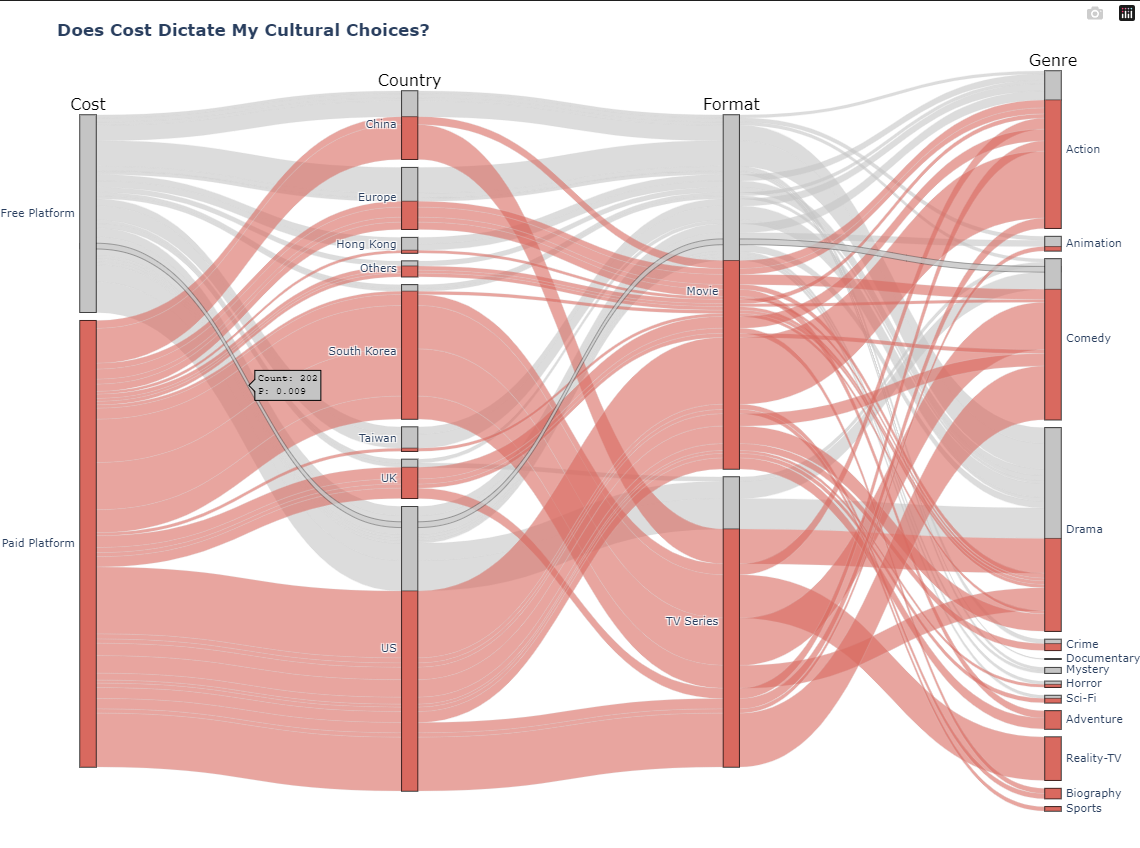
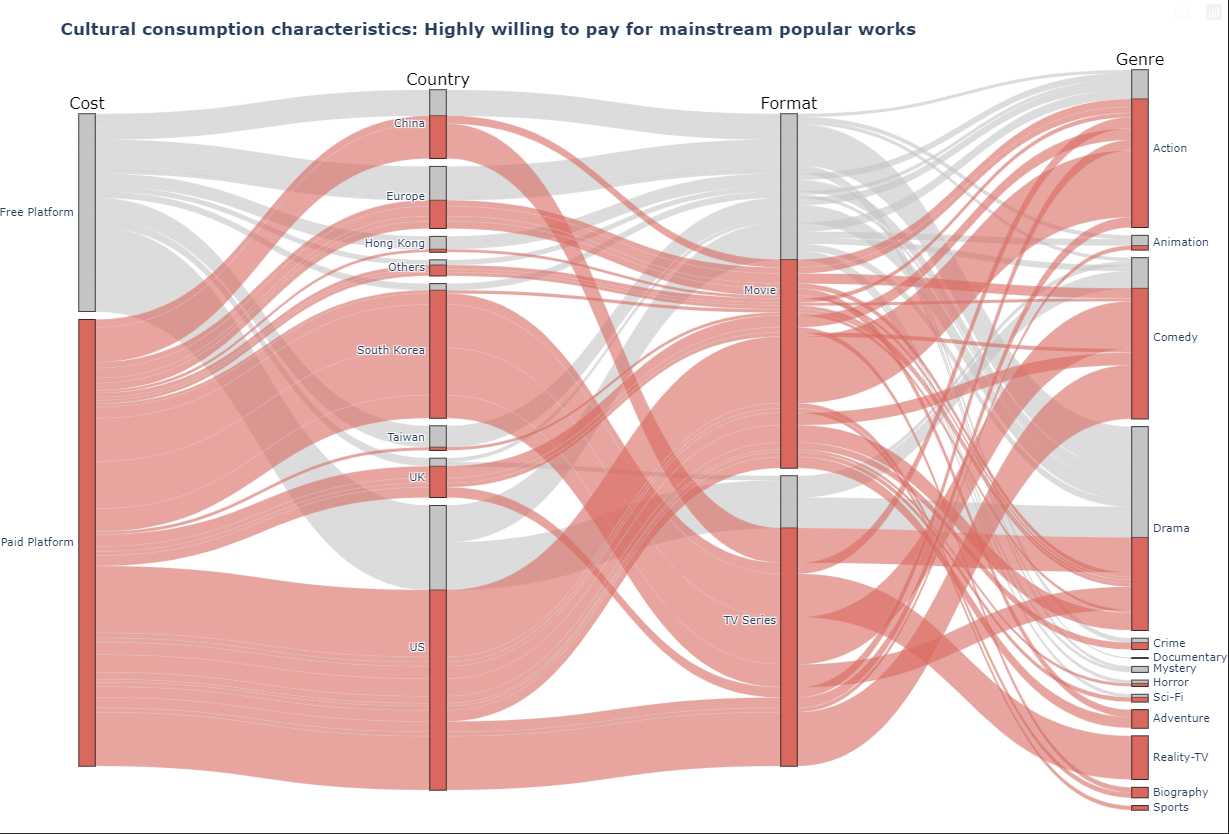
Add files via upload

diff --git a/index.html b/index.html
@@ -199,7 +199,7 @@ It can be seen that most of the time I do pay, and I watch a large number of Ame
             <h2>The Economic Funnel (Sankey Diagram)</h2>
             <p><strong>Data Calculation & Processing Methodology:</strong></p>
             <ul>
-                <li><strong>Dimensional Aggregation:</strong> Extracted key categorical dimensions such as <code>Platform</code>, <code>Type</code>, and <code>Genre</code> from the raw <code>watching_data.csv</code> dataset.</li>
+                <li><strong>Dimensional Aggregation:</strong> Extracted key categorical dimensions:<code>Platform</code>, <code>Country_Release</code>, <code>Type</code>, and <code>Genre</code> from the raw <code>watching_data.csv</code> dataset.</li>
                 <li><strong>Flow Calculation:</strong> Aggregated the rows using a multi-level grouping mechanism (<code>groupby</code>) to compute the exact counts of records flowing between adjacent nodes (e.g., tracking the precise number of entries shifting from "NETFLIX" to "Movie" vs. "TV Series").</li>
                 <li><strong>Weight Mapping:</strong> The width of the connecting links directly scales with the frequency of views (or total <code>Duration_Minutes</code>), providing an immediate, high-level visual breakdown of which platforms and contents dominated my screen time.</li>
             </ul>
@@ -222,8 +222,8 @@ This visual evidence proves the "Taste Paradox": Not only do I actively consume 
             <p><strong>Data Calculation & Processing Methodology:</strong></p>
             <ul>
                 <li><strong>Axis Configuration:</strong> Positioned <code>Public_Rating</code> on the X-axis and personal <code>My_Rating</code> on the Y-axis to formally contrast external consensus with individual taste.</li>
-                <li><strong>Quadrant Division:</strong> Established a crosshair baseline utilizing the mean or median values of both score distributions, mathematically segmenting the chart into four distinct quadrants (e.g., "Guilty Pleasures", "Critically Acclaimed Masterpieces", "Overrated Hits", and "Shared Dislikes").</li>
-                <li><strong>Bubble Scaling:</strong> Each bubble represents a single title. The size of the bubble is dynamically mapped to <code>Duration_Minutes</code> or <code>Watch_Index</code>, making longer series or higher-weight views visually prominent.</li>
+                <li><strong>Quadrant Division:</strong> Established a crosshair baseline utilizing the mean values of both score distributions, mathematically segmenting the chart into four distinct quadrants ("Guilty Pleasures", "Masterpieces", "Disappointments", and "Hidden Gems").</li>
+                <li><strong>Bubble Settings:</strong> Each bubble represents a single entity. The size of the bubble is dynamically mapped to <code>Watch_Index</code>, making higher-weight views visually prominent.Colors are used to distinguish whether payment was made or not.</li>
             </ul>
         </div>
     </div>
@@ -245,8 +245,9 @@ This visual evidence proves the "Taste Paradox": Not only do I actively consume 
             <p><strong>Data Calculation & Processing Methodology:</strong></p>
             <ul>
                 <li><strong>Time-Series Aggregation:</strong> Chronologically sorted and grouped the data by <code>Watch_Year_Quarter</code> to summarize the count and total duration per quarter. This highlights how my viewing frequency adjusted rhythmically with academic workloads across semesters.</li>
-                <li><strong>Categorical Distribution:</strong> Analyzed the composition of categorical attributes like <code>Country_Release</code> or <code>Genre</code> through frequency counts and normalized percentage distributions to find demographic preferences.</li>
-                <li><strong>Data Exploding (Data Cleaning):</strong> To accurately handle multi-labeled entries (e.g., <code>Drama|Thriller</code>), rows were split using <code>.str.split('|')</code> and expanded via <code>.explode()</code>. This crucial data-clearing step ensures that each sub-genre is accurately accounted for without underrepresenting composite genres.</li>
+                <li><strong>Categorical Distribution:</strong> Analyze the composition of classification attributes such as <code>"Type" </code>and <code>"Genre"</code> through frequency counting and standardized percentage distribution, and there are two axis-like charts that can better visually identify the inclusion relationship between types and genres.</li>
+                <li><strong>Left Y-Axis (Bar Chart) - Total Duration Minutes:</strong> To generate these bars, for each distinct quarter, the values in the <code>Duration_Minutes</code> column were aggregated using a Sum function. This calculates the absolute total time spent watching content during that specific academic term.</li>
+                <li><strong>Right Y-Axis (Line Chart) - Average Rewatch Rate:</strong> The data was similarly grouped by Watch_Year_Quarter, however, instead of calculating the sum, the values in the <code>Watch_Index</code> (Rewatch Rate) column were aggregated using a Mean (Average) function. This calculates the average repetition frequency of the works watched in that quarter.</li>
             </ul>
         </div>
     </div>
